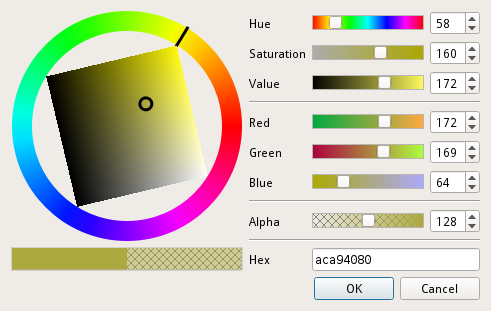
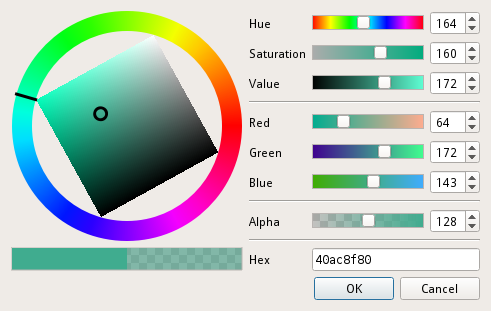
Alpha cess and click wheel

diff --git a/color_widgets/color_preview.cpp b/color_widgets/color_preview.cpp
@@ -26,9 +26,10 @@
 //#include <QGuiApplication>
 
 Color_Preview::Color_Preview(QWidget *parent) :
-    QWidget(parent), col(Qt::red),back( Qt::darkGray, Qt::DiagCrossPattern ),
+    QWidget(parent), col(Qt::red), back( Qt::darkGray, Qt::DiagCrossPattern ),
     alpha_mode(NoAlpha)
 {
+    back.setTexture(QPixmap(QString(":/color_widgets/alphaback.png")));
     //setPalette(QGuiApplication::palette());
 }
 

diff --git a/color_widgets/gradient_slider.cpp b/color_widgets/gradient_slider.cpp
@@ -35,6 +35,9 @@ Gradient_Slider::Gradient_Slider(QWidget *parent) :
     col_list.push_back(Qt::black);
     col_list.push_back(Qt::white);
 
+
+    back.setTexture(QPixmap(QString(":/color_widgets/alphaback.png")));
+
     setOrientation(Qt::Horizontal);
 }
 

diff --git a/color_widgets/color_wheel.cpp b/color_widgets/color_wheel.cpp
@@ -157,8 +157,9 @@ void Color_Wheel::mousePressEvent(QMouseEvent *ev)
     }
 }
 
-void Color_Wheel::mouseReleaseEvent(QMouseEvent *)
+void Color_Wheel::mouseReleaseEvent(QMouseEvent *ev)
 {
+    mouseMoveEvent(ev);
     mouse_status = Nothing;
 }
 

diff --git a/main.cpp b/main.cpp
@@ -30,7 +30,7 @@ int main(int argc, char *argv[])
     /*Color_Selector s;
     s.show();*/
     Color_Dialog w;
-    w.setColor(QColor(172,169,64,128));
+    w.setColor(QColor(64,172,143,128));
     w.show();
 
     /*QPixmap p(w.size());
